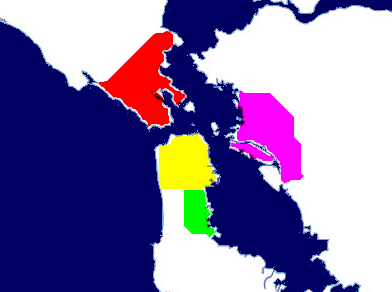
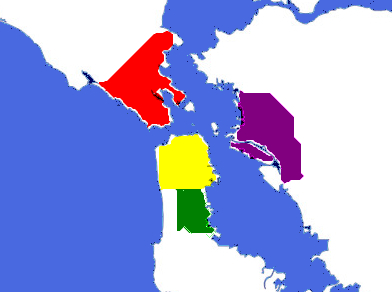
Add files via upload

diff --git a/services.htm b/services.htm
@@ -41,27 +41,70 @@ body,h1,h2,h3,h4,h5,h6 {font-family: "Lato", sans-serif}
   <p></p>
 </div>
 
-<div class="w3-bar w3-theme-l4">
-  <button class="w3-bar-item w3-button w3-white w3-round-xxlarge" onclick="openCity('LSA')">Service Area</button>
-  <button class="w3-bar-item w3-button w3-white w3-round-xxlarge" onclick="openCity('Moving')">Moving</</button>
-  <button class="w3-bar-item w3-button w3-white w3-round-xxlarge" onclick="openCity('Packing')">Packing</button>
+<div class="w3-bar w3-theme-l5">
+  <button class="w3-bar-item w3-button w3-border w3-round-xlarge" onclick="openCity('LSA')">Service Area</button>
+  <button class="w3-bar-item w3-button w3-border w3-round-xlarge" onclick="openCity('Moving')">Moving</</button>
+  <button class="w3-bar-item w3-button w3-border w3-round-xlarge" onclick="openCity('Packing')">Packing</button>
 </div>
 
-<div id="LSA" class="w3-container service">
-  <h2>Our Service Areas</h2>
-  <p>Map of "Local Service Areas"</p>
+<div id="LSA" class="w3-container service w3-theme-l5 w3-center">
+  <h5>Our Local Service Areas</h5>
   		<div class="w3-container">
   				<img src="images/LSA.jpg" style="min-width:30%; max-width: 50%">
   		</div>
+  		<div>
+  				<div class="w3-row w3-margin-top">
+					<div class="w3-quarter w3-card-4" style="50%">
+						<header class="w3-container w3-yellow banner-secondc">
+      					<h5>San Francisco Area</h5>
+    					</header>
+							<div class="w3-container banner-secondc">
+      						<p>Birsbane, Colma, Daly City, San Francisco, & South San Francisco</p>
+    						</div>
+    				</div>
+    				<div class="w3-quarter w3-card-4" style="50%">
+						<header class="w3-container w3-red banner-secondc">
+      					<h5>Marin Area</h5>
+    					</header>
+							<div class="w3-container banner-secondc">
+      						<p>Belvedere, Corte Madera, Fairfax,
+									Greenbrae, Larkspur, Marin City, 
+									Mill Valley, Ross, San Anselmo,
+									San Rafael, Sausalito & Tiburon</p>
+    						</div>
+    				</div>
+    				<div class="w3-quarter w3-card-4" style="50%">
+						<header class="w3-container w3-purple banner-secondc">
+      					<h5>East Bay Area</h5>
+    					</header>
+							<div class="w3-container banner-secondc">
+      						<p>Alameda, Albany, Berkeley,
+									Emeryville & Oakland
+								</p>
+    						</div>
+    				</div>
+    				<div class="w3-quarter w3-card-4" style="50%">
+						<header class="w3-container w3-green banner-secondc">
+      					<h5>San Mateo Area</h5>
+    					</header>
+							<div class="w3-container banner-secondc">
+      						<p>Belmont, Burlingame, Foster City,
+									Hillsborough, Millbrae, San Bruno, 
+									San Carlos & San Mateo
+								</p>
+    						</div>
+    				</div>
+  				</div>   
+  		</div>
 </div>
 
-<div id="Moving" class="w3-container service" style="display:none">
-  <h2>Moving Services</h2>
+<div id="Moving" class="w3-container service w3-theme-l5 banner-second" style="display:none">
+  <h5>Moving Services</h5>
   <p>Description of Moving our Moving Services here</p> 
 </div>
 
-<div id="Packing" class="w3-container service" style="display:none">
-<h2>Packing Servies</h2>
+<div id="Packing" class="w3-container service w3-theme-l5 banner-second" style="display:none">
+<h5>Packing Servies</h5>
   <p>Our Packing Service and info on how to pack.</p>
 </div>
 

diff --git a/style.css b/style.css
@@ -1,8 +1,7 @@
 	html, body{
   font-family: 'Hind', sans-serif;
    font-size: 100%;
-   background:#fff	;
- 
+   background:#fff	; 
 }
 
 
@@ -150,6 +149,59 @@
     text-align: center;
         margin: 0em 0em 0em 0em;
     font-family: Times, sans-serif;
+}
+
+.banner-secondc {
+    padding: 0em 0em;
+    text-align: center;
+    background:#fff;
+    width: 100%;
+    margin: 0em auto 0em;
+    }
+    
+    .banner-secondc h3 {
+    font-size: 3vmin;
+    color: #000;
+    text-align: center;
+        margin: 0em 0em 0em 0em;
+    font-family: Times, sans-serif;
+}
+.banner-secondc h4 {
+	font-size:4vmin;
+	color: #000;
+	text-align: center;
+	font-family: Times, sans-serif;
+	margin: 0em 0em 0em 0em;
+	letter-spacing: 1vw;
+	line-height: 3.5vw;
+}
+
+.banner-secondc h5 {
+	font-size:1em;
+	color: #000;
+	text-align: center;
+	font-family: Times, sans-serif;
+	margin: 0em 0em 0em 0em;
+}
+.banner-secondc h6 {
+    font-size: 6vmin;
+    color: #000;
+    text-align: center;
+        margin: 0em 0em 0em 0em;
+    font-family: Times, sans-serif;
+}
+
+.banner-secondc p {
+    font-size: .8em;
+    color: #000;
+    text-align: center;
+        margin: 0em 0em 0em 0em;
+    font-family: Times, sans-serif;
+}
+
+ul {
+  background: #00008b;
+  padding: 20px;
 }
     
 .w3-theme-l5 {color:#00008B !important; background-color:#fff !important}

diff --git a/index.html b/index.html
@@ -13,7 +13,8 @@
 h1,{font-family: "Lato", sans-serif}
 
 </style>
-<body>
+<body bgcolor="#E6E6FA">
+
 
 <!-- Navbar -->
 <div class="w3-cointainer w3-top">
@@ -37,19 +38,19 @@ h1,{font-family: "Lato", sans-serif}
 
 <!-- Header -->
 
-<div class="w3-container w3-theme-l5 banner-second" style="padding-top: 60px;">
+<div class="w3-container w3-theme-l4 banner-secondb" style="padding-top: 60px;">
 	<p>Moving Made Easy Since 1983.</p>
-	<img src="images/banner3b.jpg" style="width:57%">
+	<img src="images/bannerRoyal.jpg" style="width:57%">
 </div>
 
-<div class="w3-container w3-theme-l5 banner-second" style="padding-top: 0px" >
+<div class="w3-container w3-theme-l4 banner-secondb" style="padding-top: 0px" >
 	<h5><b>ONE BIG MAN & </b></h5>
 	<h5><b>ONE BIG TRUCK</b></h5>
 	<h5><b>MOVING CO.INC</b></h5>
 	<p>SAN FRANCISCO</p> 
 </div>
 
-<div class="w3-theme-l5 w3-container banner-second">
+<div class="w3-theme-l4 w3-container banner-secondb">
     <h3>Contact Information</h3>
         <p>Email: <a href="mailto:info@onebigman.com">info@onebigman.com</a></p>
         <p>(415)821-9697</p>
